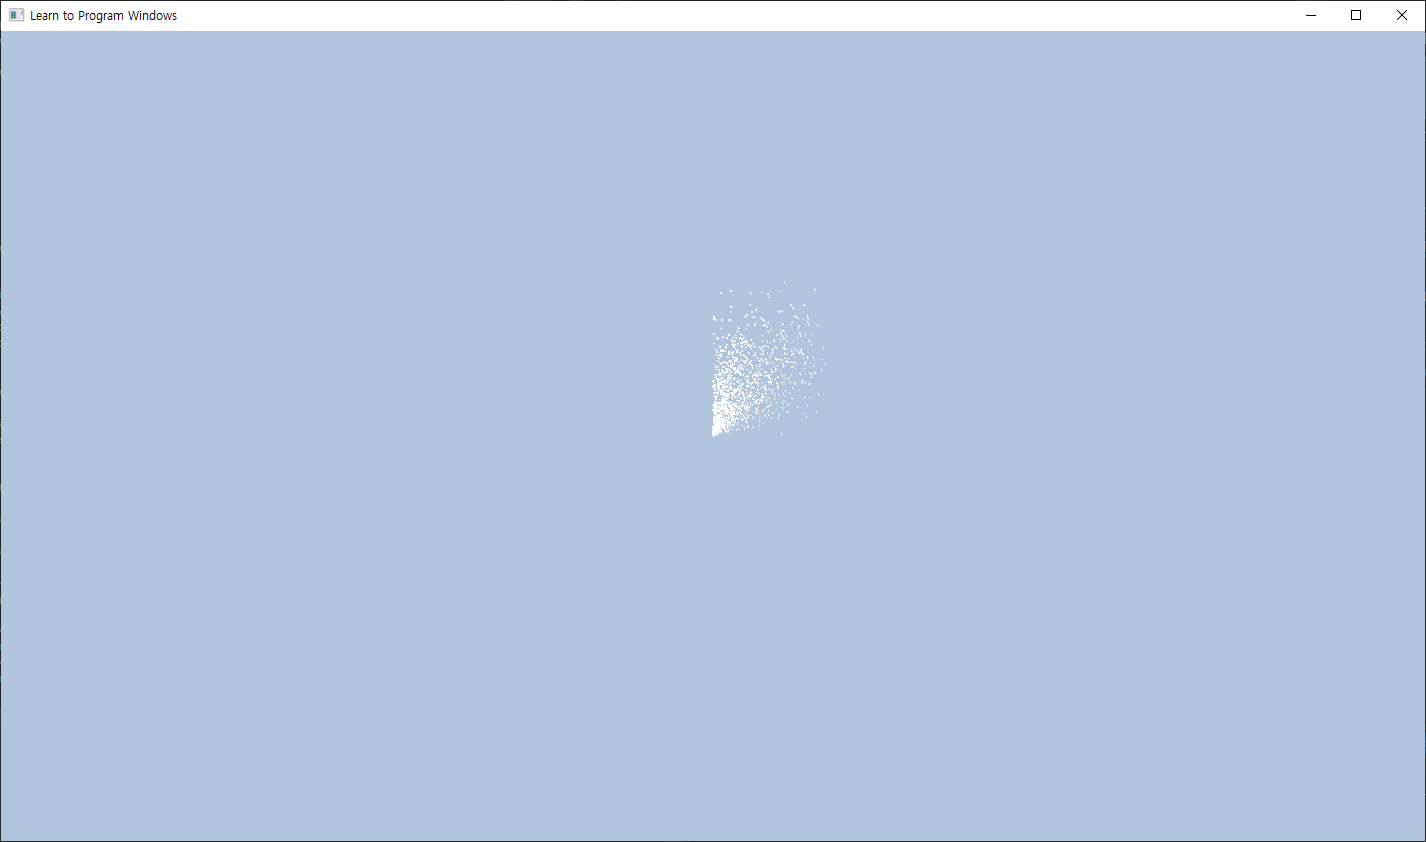
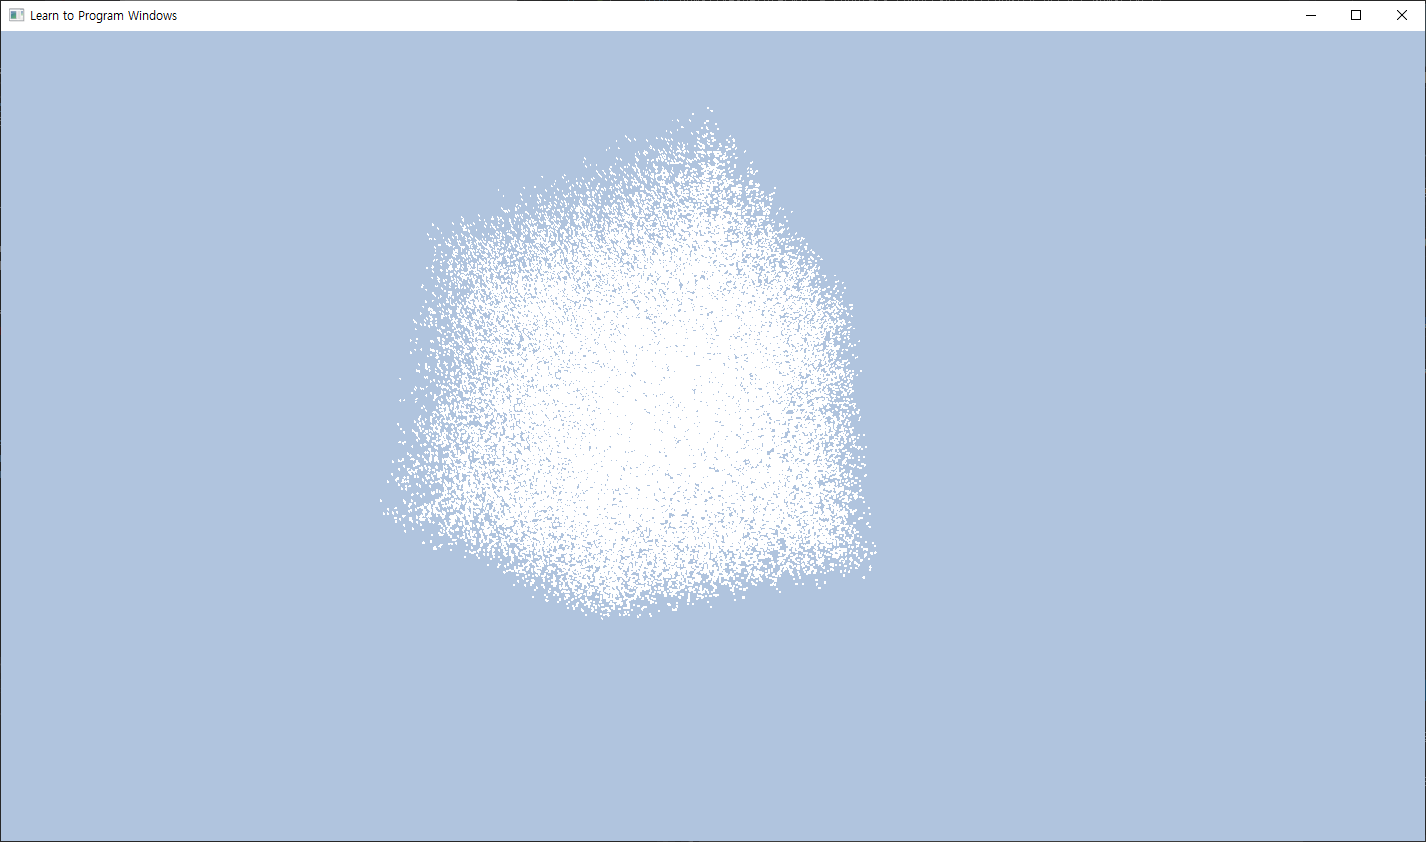
million particles

Changed region(s): [[0.2777, 0.1544, 0.6171, 0.7411]]

diff --git a/FullyGpuParticleSystem/ParticleApp/ParticleApp.cpp b/FullyGpuParticleSystem/ParticleApp/ParticleApp.cpp
@@ -114,7 +114,7 @@ void ParticleApp::draw(const GameTimer& gt)
 	ID3D12DescriptorHeap* descriptorHeaps[] = { cbvSrvUavDescriptorHeap.Get() };
 	commandList->SetDescriptorHeaps(_countof(descriptorHeaps), descriptorHeaps);
 
-	_particleEmitter->emitParticles(commandList.Get(), 1, gt.deltaTime());
+	_particleEmitter->emitParticles(commandList.Get(), 1000, gt.deltaTime());
 
 	_particleSimulator->simulateParticles(commandList.Get(), gt.deltaTime());
 

diff --git a/FullyGpuParticleSystem/ParticleApp/ParticleEmitter.cpp b/FullyGpuParticleSystem/ParticleApp/ParticleEmitter.cpp
@@ -40,7 +40,8 @@ void ParticleEmitter::emitParticles(
 		numParticlesToEmit, 
 		DirectX::XMFLOAT3{0.0f, 0.0f, 0.0f}, 
 		DirectX::XMFLOAT2{0.0f, 0.0f},
-		deltaTime };
+		deltaTime,
+		_resource->getMaxNumParticles()};
 
 	cmdList->SetComputeRootSignature(_rootSignature.Get());
 

diff --git a/FullyGpuParticleSystem/ParticleApp/ParticleResource.h b/FullyGpuParticleSystem/ParticleApp/ParticleResource.h
@@ -43,7 +43,7 @@ private:
 
 private:
 	static constexpr int NUM_RESOURCES = 5;
-	static constexpr int MAX_NUM_PARTICLES = 10'000;
+	static constexpr int MAX_NUM_PARTICLES = 1'000'000;
 
 	Microsoft::WRL::ComPtr<ID3D12Device> _device;
 

diff --git a/FullyGpuParticleSystem/ParticleApp/ParticleEmitter.h b/FullyGpuParticleSystem/ParticleApp/ParticleEmitter.h
@@ -16,6 +16,7 @@ struct EmitConstants
 	DirectX::XMFLOAT3 Position;
 	DirectX::XMFLOAT2 Orientation;
 	float DeltaTime;
+	UINT MaxNumParticles;
 };
 
 class ParticleEmitter
